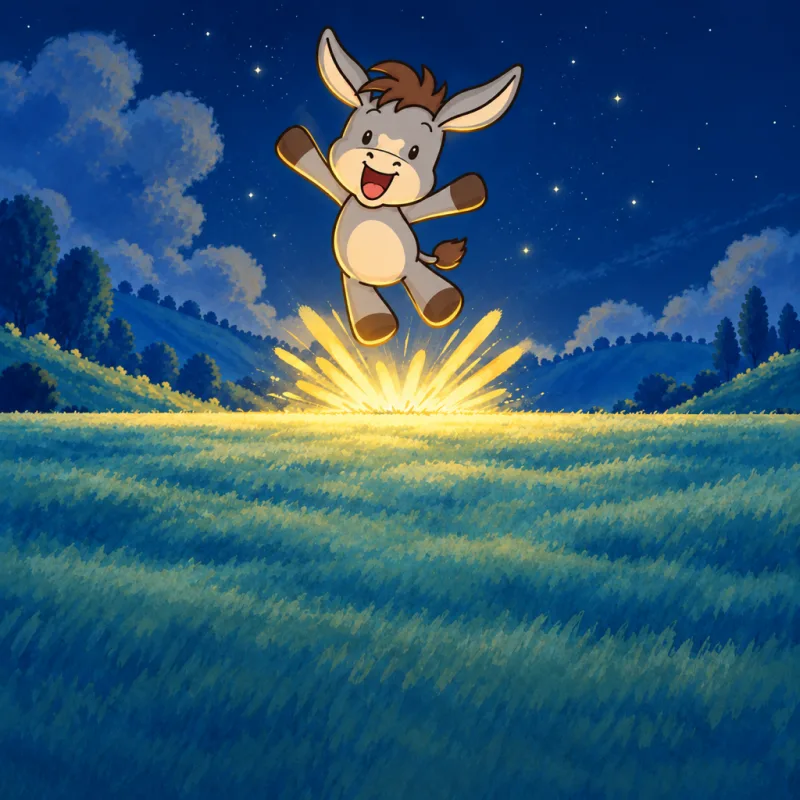
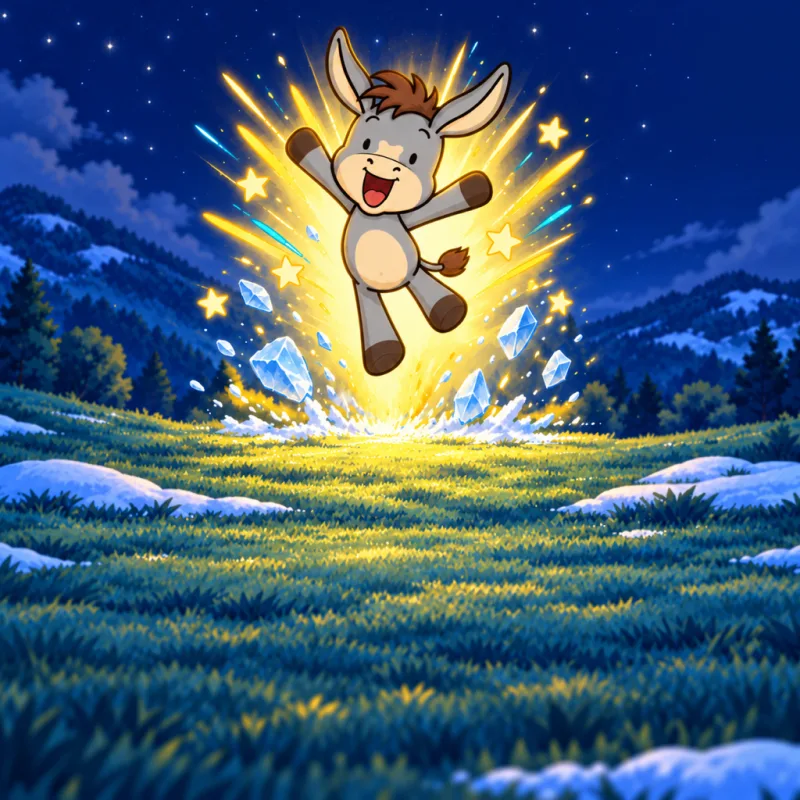
Escala de Teodoro completa: 11 pasos y reactivado, de día y de noche, fieles al original
24 escenas nuevas generadas con Codex (café tipo Mona Lisa, impaciente y desesperado incluidos); sin suplentes.

diff --git a/public/js/flow.js b/public/js/flow.js
@@ -406,15 +406,13 @@ register('hoy', {
 const ESCENA_ALT = ['feliz a reventar', 'en marcha hacia la aventura', 'listo para salir', 'tomando café, serio, esperándote', 'impaciente, mirando el reloj',
   'desesperado buscándote', 'envuelto en telarañas de tanto esperar', 'cubierto de musgo de tanto esperar', 'atrapado en una ventisca', 'lleno de carámbanos', 'congelado en un bloque de hielo'];
 export const pasoTeodoro = () => S.bateria > 0 ? 5 - S.bateria : Math.max(5, Math.min(10, S.sinCaminar || 0));
-// pasos aún sin imagen (café, impaciente, desesperado): mientras tanto, la telaraña «de tanto esperar»
-const SUPLENTE = { 3: 6, 4: 6, 5: 6 };
 let pilaRecarga = null; // se decide una vez por pantalla: las dos piezas de Hoy muestran lo mismo
 function escenaPila(card, scene) {
   const imgs = $$(scene, 'img'), land = imgs.find(i => !/^Teodoro/i.test(i.alt || ''));
   if (!land) return;
   if (pilaRecarga == null) { pilaRecarga = S.pilaVista != null && S.bateria > S.pilaVista; setTimeout(() => { S.pilaVista = S.bateria; save(); pilaRecarga = null; }, 0); }
   const tema = dark() ? 'noche' : 'dia';
-  const paso = SUPLENTE[pasoTeodoro()] ?? pasoTeodoro();
+  const paso = pasoTeodoro();
   const antes = { src: land.getAttribute('src'), style: land.getAttribute('style'), alt: land.alt };
   const otros = [...imgs.filter(i => i !== land), ...$$(scene, ':scope > span')];
   // si la imagen no carga, la ilustración de siempre
